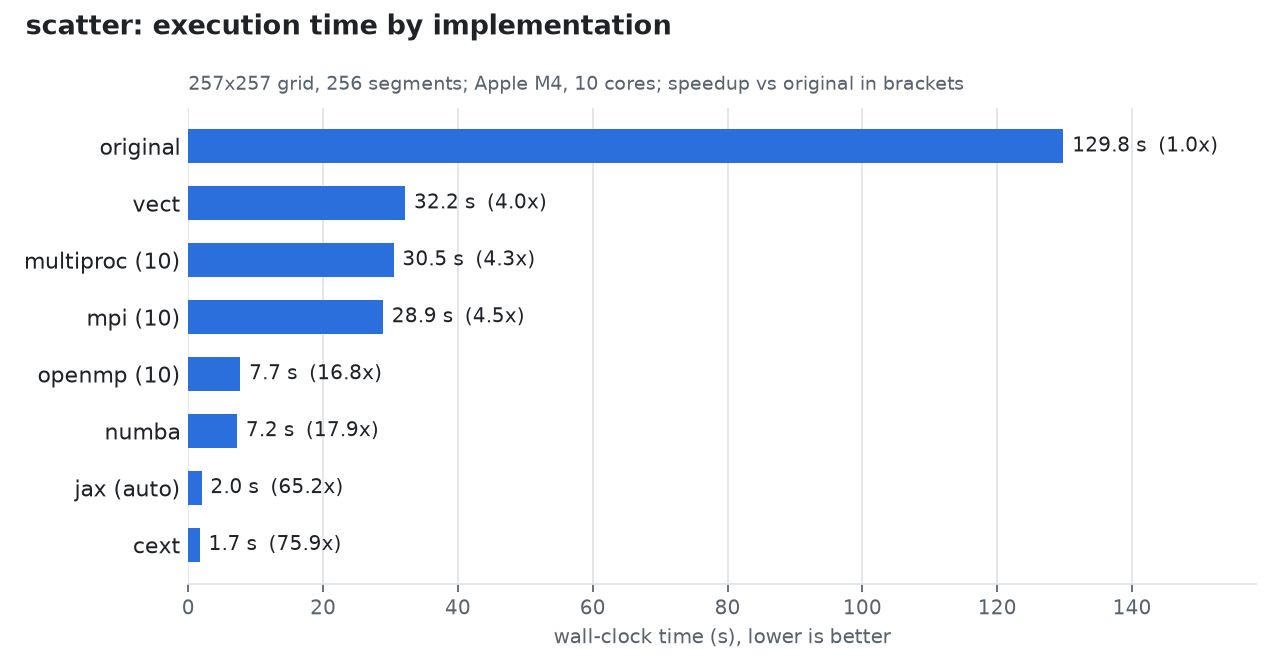
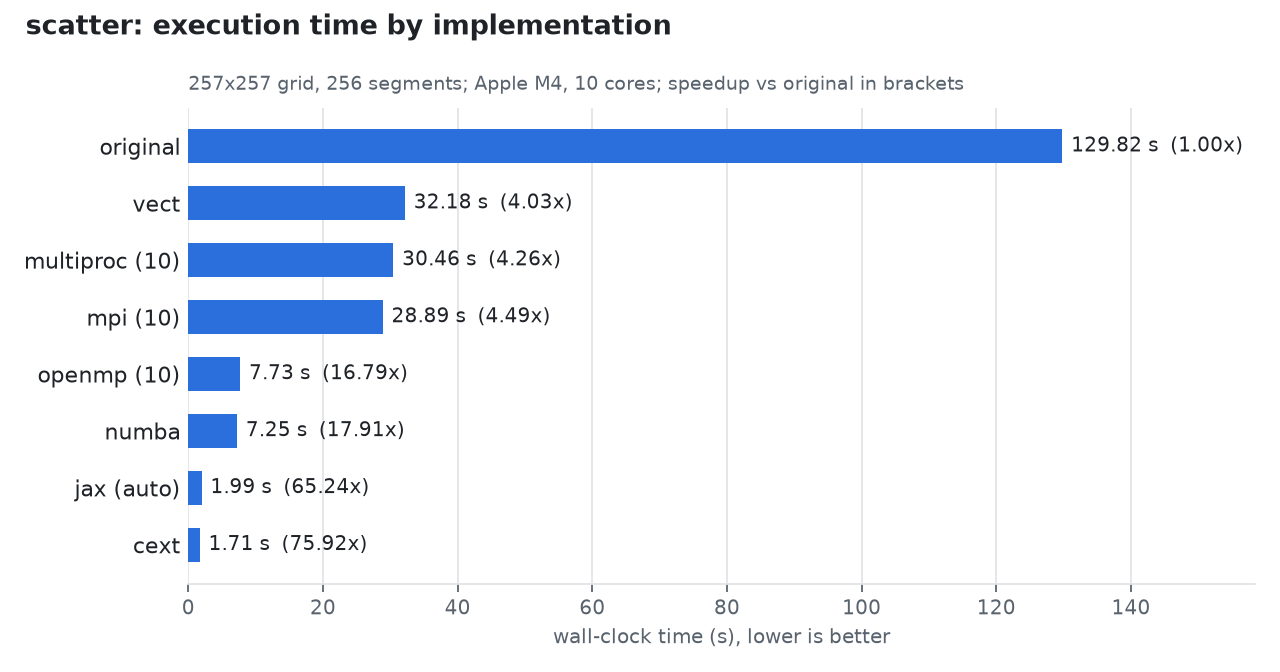
Show speedup with 2 decimals, add --from-csv to regenerate outputs

diff --git a/benchmarks/run_benchmarks.py b/benchmarks/run_benchmarks.py
@@ -81,10 +81,18 @@ def main():
     p.add_argument('-nc', type=int, default=256)
     p.add_argument('--repeat', type=int, default=1, help='runs per variant, best time is kept')
     p.add_argument('--only', nargs='*', help='only time these variants')
+    p.add_argument('--from-csv', action='store_true',
+                   help='do not run anything, regenerate results.md and timings.png from results.csv')
     args = p.parse_args()
 
     rows = []
-    for name, rel, workers in VARIANTS:
+    if args.from_csv:
+        with open(os.path.join(HERE, 'results.csv')) as f:
+            for r in csv.DictReader(f):
+                rows.append({'variant': r['variant'],
+                             'workers': int(r['workers']) if r['workers'].isdigit() else r['workers'],
+                             'seconds': float(r['seconds']), 'checksum': float(r['checksum'])})
+    for name, rel, workers in ([] if args.from_csv else VARIANTS):
         if args.only and name not in args.only:
             continue
         directory = os.path.join(ROOT, rel)
@@ -99,7 +107,7 @@ def main():
 
     ref = next((r for r in rows if r['variant'] == 'original'), rows[0])
     for r in rows:
-        r['speedup'] = round(ref['seconds'] / r['seconds'], 1)
+        r['speedup'] = round(ref['seconds'] / r['seconds'], 2)
         # all variants must compute the same thing (float32 sums: ~1e-4 relative)
         assert abs(r['checksum'] - ref['checksum']) < 1.e-4 * abs(ref['checksum']), r
 
@@ -115,7 +123,7 @@ def main():
         f.write('Wall-clock time of the whole run, best of {}.\n\n'.format(args.repeat))
         f.write('| variant | workers | time (s) | speedup vs original |\n|---|---:|---:|---:|\n')
         for r in rows:
-            f.write('| {variant} | {workers} | {seconds:.2f} | {speedup:.1f}x |\n'.format(**r))
+            f.write('| {variant} | {workers} | {seconds:.2f} | {speedup:.2f}x |\n'.format(**r))
 
     plot(rows, args)
 
@@ -139,7 +147,7 @@ def plot(rows, args):
     ax.invert_yaxis()
     top = max(secs)
     for yi, r in zip(y, rows):
-        ax.text(r['seconds'] + top*0.01, yi, '{:.1f} s  ({:.1f}x)'.format(r['seconds'], r['speedup']),
+        ax.text(r['seconds'] + top*0.01, yi, '{:.2f} s  ({:.2f}x)'.format(r['seconds'], r['speedup']),
                 va='center', color=ink, fontsize=9)
     ax.set_xlim(0, top*1.22)
     ax.set_xlabel('wall-clock time (s), lower is better', color=muted, fontsize=9)

diff --git a/README.md b/README.md
@@ -77,14 +77,14 @@ Wall-clock time of the whole run, best of 1.
 
 | variant | workers | time (s) | speedup vs original |
 |---|---:|---:|---:|
-| original | 1 | 129.82 | 1.0x |
-| vect | 1 | 32.18 | 4.0x |
-| numba | 1 | 7.25 | 17.9x |
-| cext | 1 | 1.71 | 75.9x |
-| multiproc | 10 | 30.46 | 4.3x |
-| mpi | 10 | 28.89 | 4.5x |
-| openmp | 10 | 7.73 | 16.8x |
-| jax | auto | 1.99 | 65.2x |
+| original | 1 | 129.82 | 1.00x |
+| vect | 1 | 32.18 | 4.03x |
+| numba | 1 | 7.25 | 17.91x |
+| cext | 1 | 1.71 | 75.92x |
+| multiproc | 10 | 30.46 | 4.26x |
+| mpi | 10 | 28.89 | 4.49x |
+| openmp | 10 | 7.73 | 16.79x |
+| jax | auto | 1.99 | 65.24x |
 
 ![Execution time by implementation](benchmarks/timings.png)
 

diff --git a/benchmarks/results.md b/benchmarks/results.md
@@ -4,11 +4,11 @@ Wall-clock time of the whole run, best of 1.
 
 | variant | workers | time (s) | speedup vs original |
 |---|---:|---:|---:|
-| original | 1 | 129.82 | 1.0x |
-| vect | 1 | 32.18 | 4.0x |
-| numba | 1 | 7.25 | 17.9x |
-| cext | 1 | 1.71 | 75.9x |
-| multiproc | 10 | 30.46 | 4.3x |
-| mpi | 10 | 28.89 | 4.5x |
-| openmp | 10 | 7.73 | 16.8x |
-| jax | auto | 1.99 | 65.2x |
+| original | 1 | 129.82 | 1.00x |
+| vect | 1 | 32.18 | 4.03x |
+| numba | 1 | 7.25 | 17.91x |
+| cext | 1 | 1.71 | 75.92x |
+| multiproc | 10 | 30.46 | 4.26x |
+| mpi | 10 | 28.89 | 4.49x |
+| openmp | 10 | 7.73 | 16.79x |
+| jax | auto | 1.99 | 65.24x |
